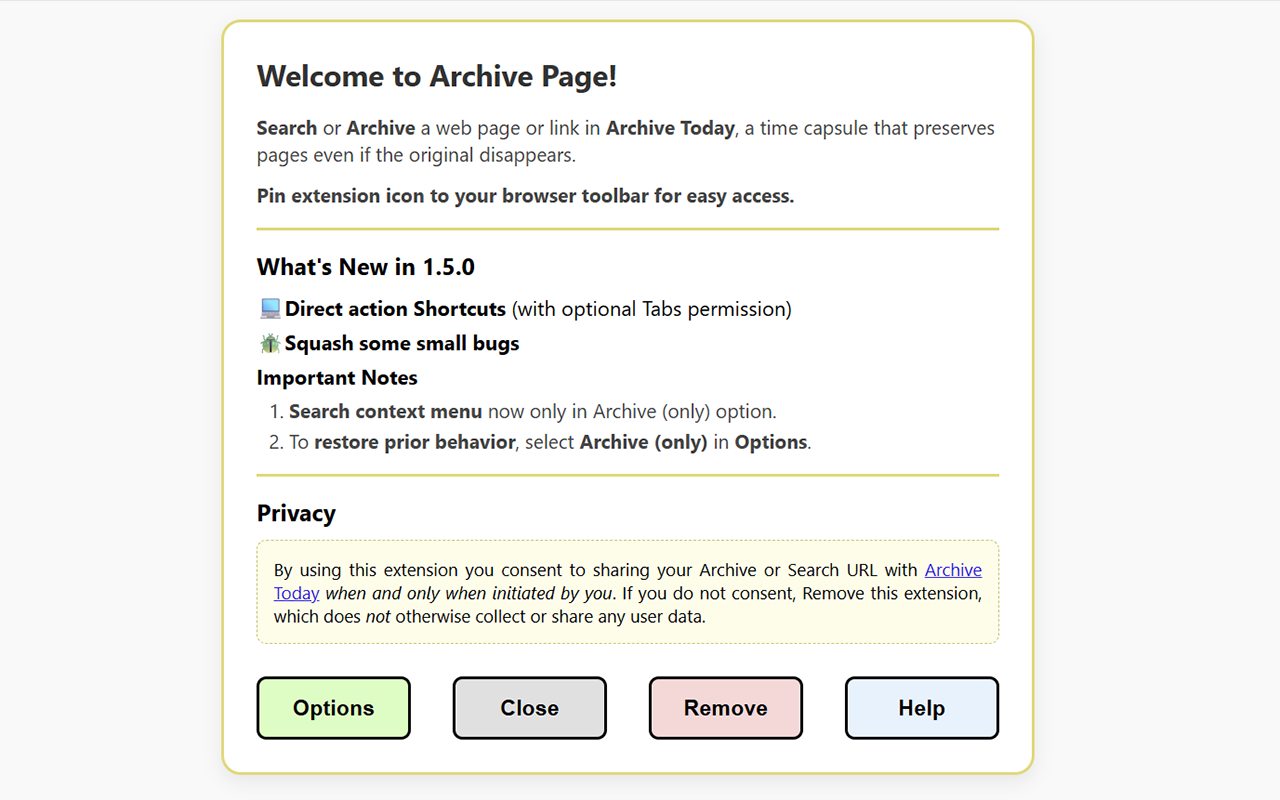
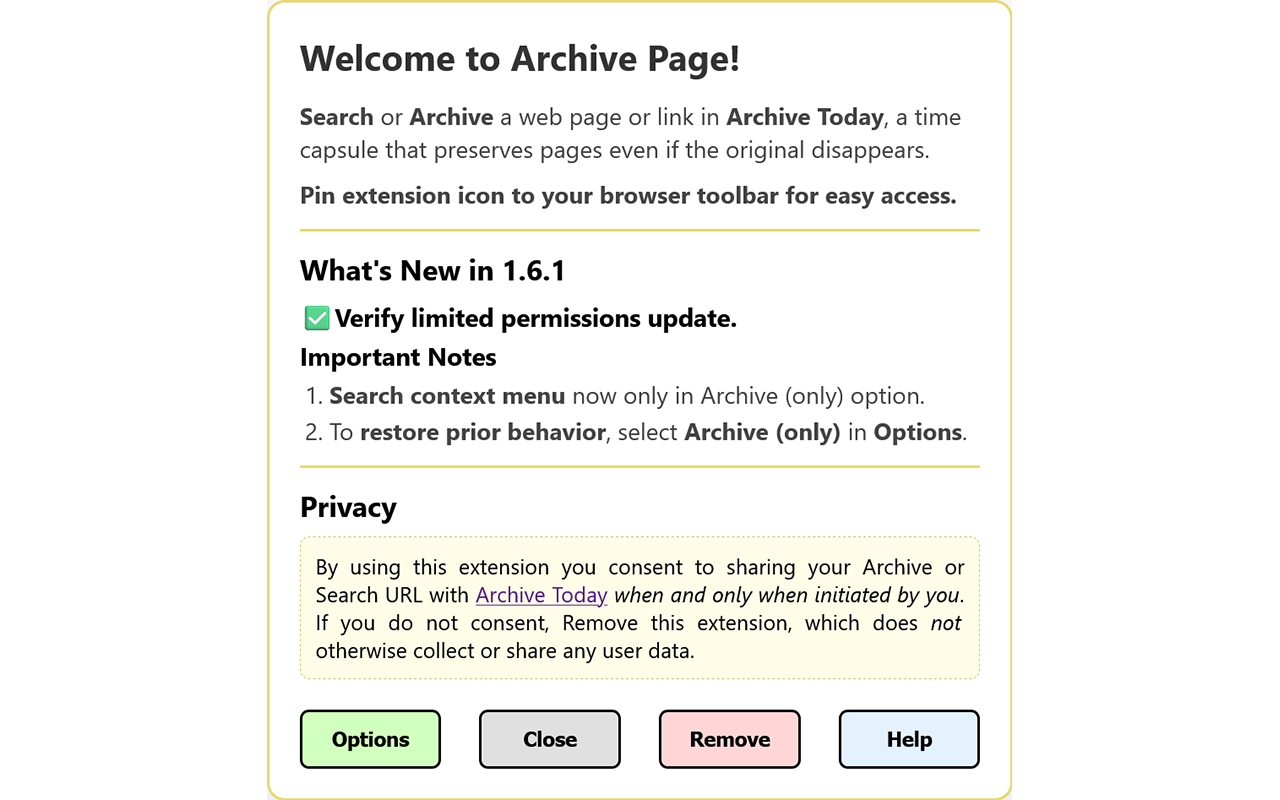
v1.6.1
Verify limited permissions update.

Changed region(s): [[0.1562, 0.0, 0.8125, 0.9688]]

diff --git a/Chrome/welcome.html b/Chrome/welcome.html
@@ -171,8 +171,8 @@
         <p><strong>Pin extension icon to your browser toolbar for easy access.</strong></p>
 
         <div class="divider">
-            <h2>What's New in 1.6.0</h2>
-            <h3>✅Restore more limited permissions.</h3>
+            <h2>What's New in 1.6.1</h2>
+            <h3>✅Verify limited permissions update.</h3>
             <h3>Important Notes</h3>
             <ol class="tight-list">
                 <li><strong>Search context menu</strong> now only in Archive (only) option.</li>
